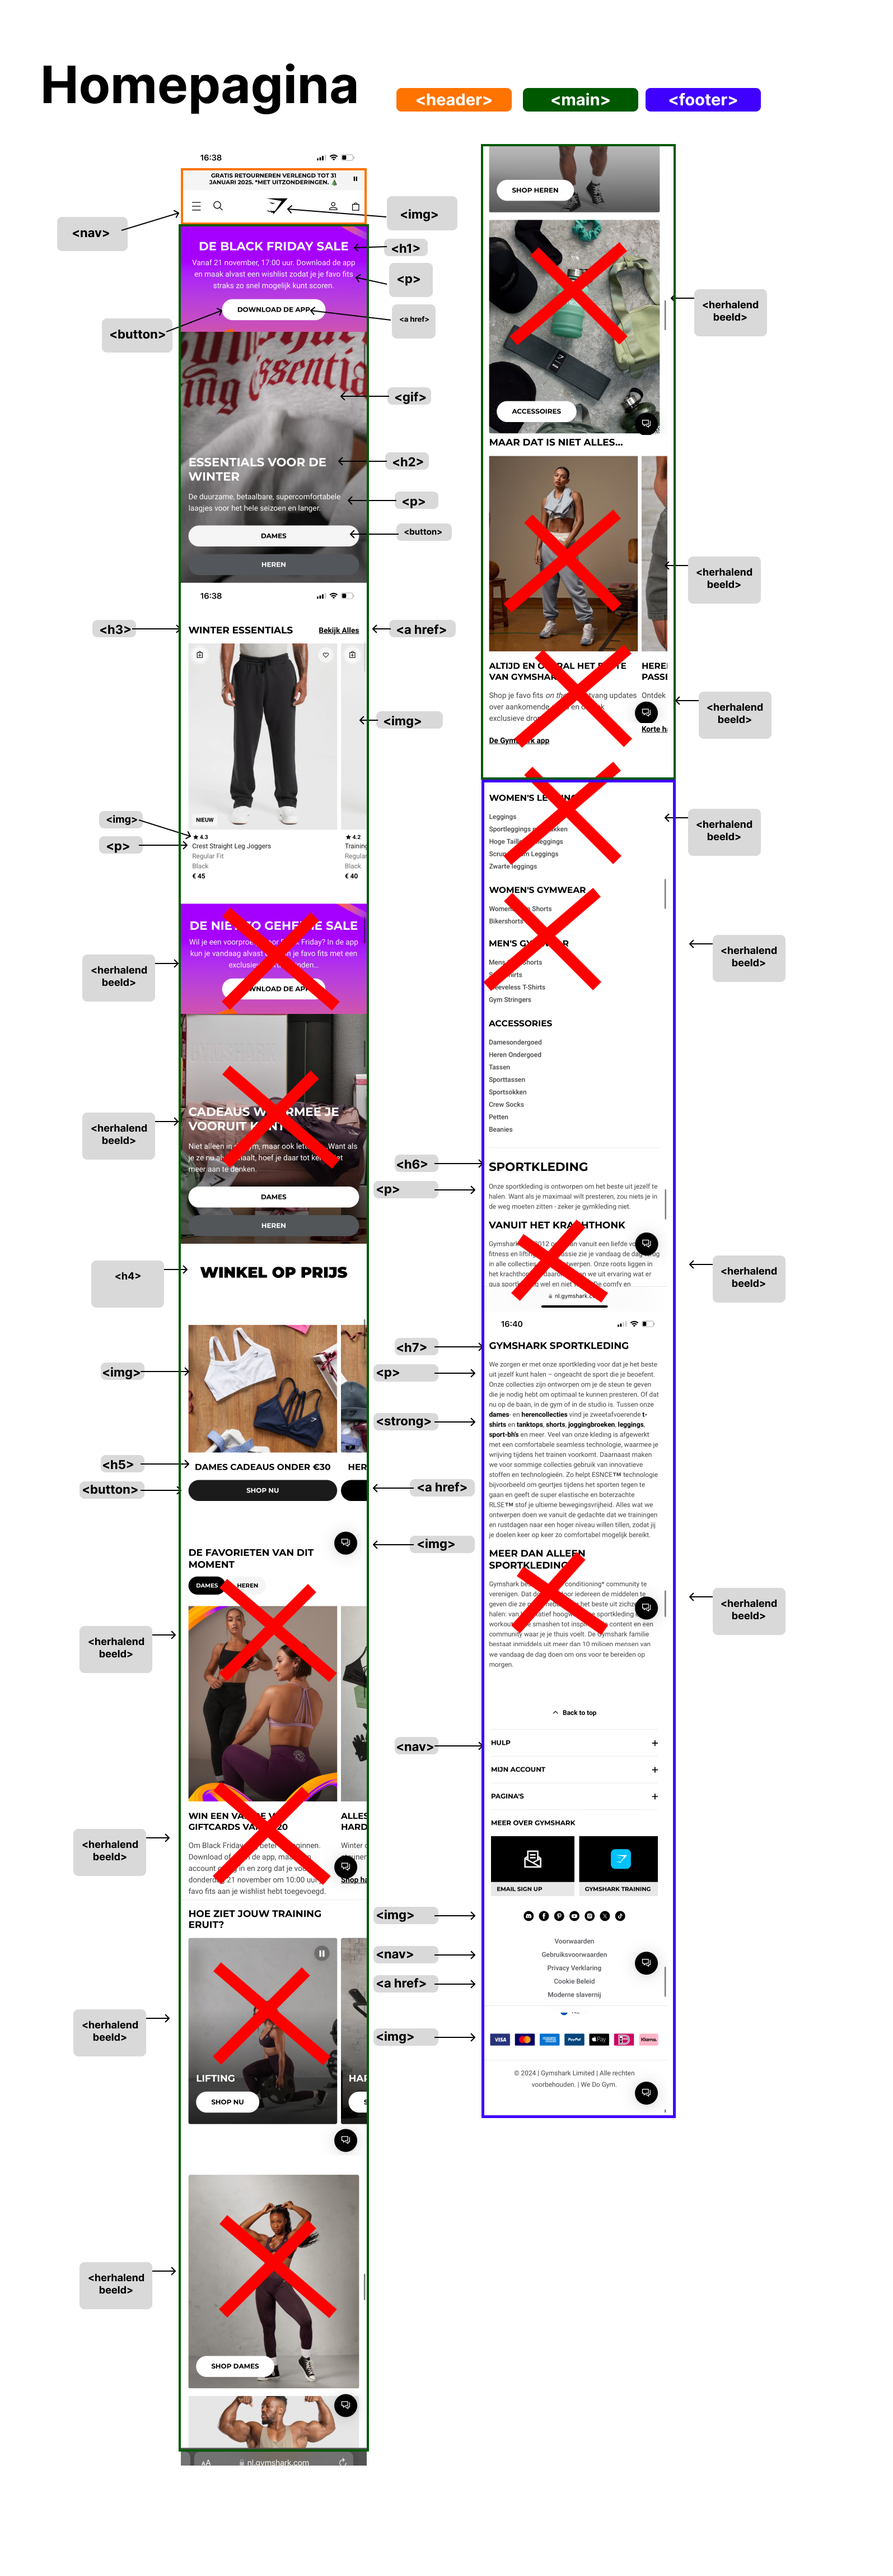
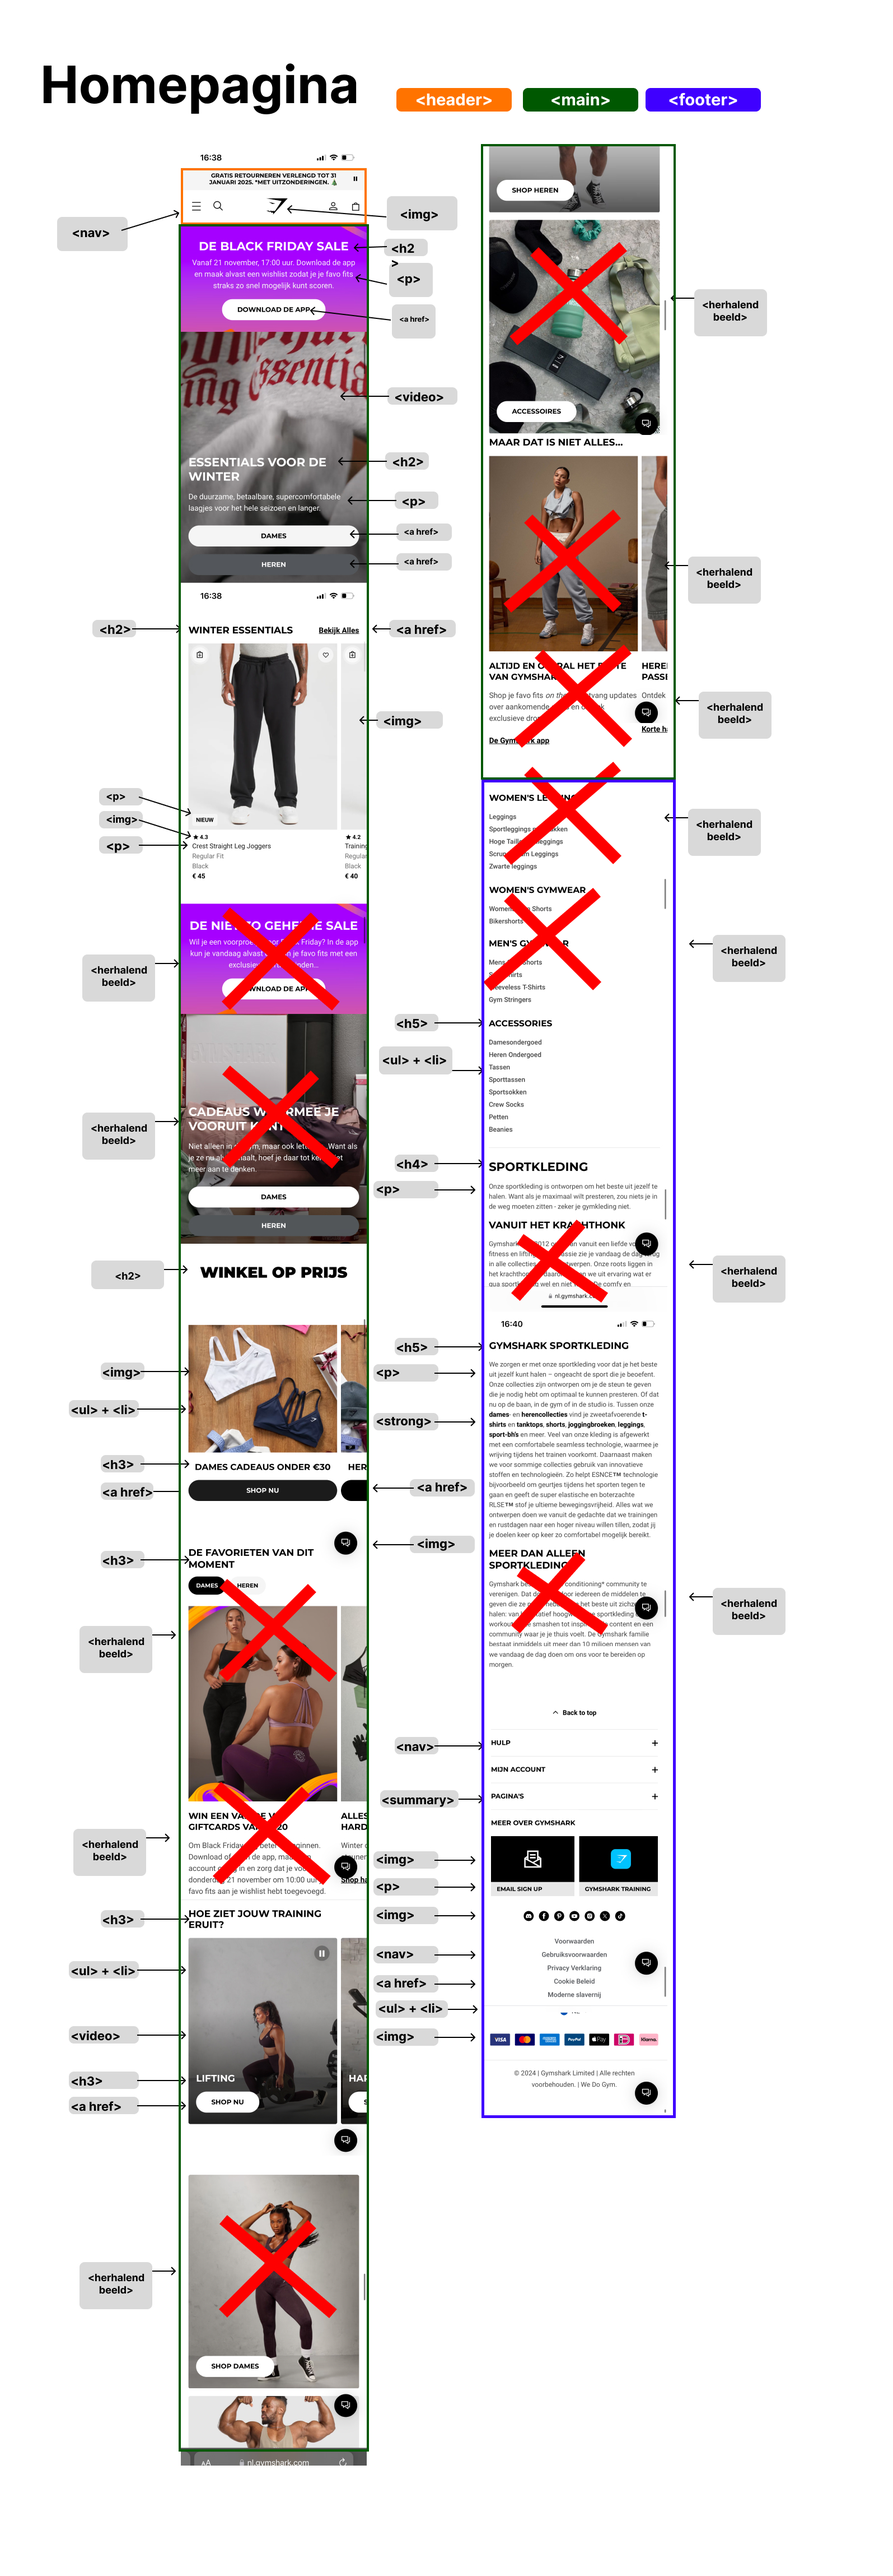
Add files via upload

diff --git a/README.md b/README.md
@@ -56,13 +56,34 @@ Responsive
   <summary>uitwerken na test in 2<sup>e</sup> werkgroep</summary>
 
   ### Bevindingen
-  Lijst met je bevindingen die in de test naar voren kwamen:
-    - Er zijn geen alt tags aanwezig op de content
-    - Het ging goed bij het selecteren van een andere taal en ander land waar je je bevindt, alleen het terug veranderen ging moeizaam.
-    - Niet alle interactieve elementen worden gefocust via de keyboard input (shift + tab)
-    - Horizontaal scrollen is niet mogelijk
-    - Er zit genoeg ruimte tussen interactieve buttons
-    - Slechte heading volgorde (sommige headings zijn divs)
+
+1. Content
+De tekst op de website is duidelijk en gemakkelijk te begrijpen zonder gebruik van aparte taal.
+Beschrijvingen van producten zijn vrij kort en kan problematisch zijn voor mensen die een visuele beperking hebben, in de alt text van de afbeelding staat zelfs niet welke kleur een broek is.
+2. Global code
+Er wordt slecht gebruik gemaakt van de headings, dit zijn <div> in plaats van bijvoorbeeld een <h2>
+3. Keyboard
+Alle interactieve elementen, zoals knoppen en links, kunnen goed worden bediend via het toetsenbord. De focusstatus is niet altijd zichtbaar wanneer gebruikers via het toetsenbord navigeren, wat het moeilijk maakt om te zien welk element geselecteerd is.
+4. Images
+De meeste afbeeldingen bevatten een alt-tekst die de inhoud van de afbeelding beschrijft. Bij sommige plaatjes staat de heading als alt tag in de image waardoor je niet weet wat het plaatje is.
+5. Headings
+De headings zijn niet goed gestructureerd. De hoofdtitel van de pagina zit in een banner, dit klopt niet. Verder zijn er meerdere H1 elementen wat niet mogelijk is.
+6. Lists
+De website gebruikt lijststructuren (zoals <ul> en <li>) op een goede manier, bij items zie je eerst een <ul> als parent en dan <li> items als children.
+7. Controls
+Knoppen en links zijn duidelijk gemarkeerd, en hun functionaliteit is direct herkenbaar. De elementen hebben een duidelijke focus status bij het navigeren met het toetsenbord.
+8. Media
+De video's op de website kunnen gepauzeerd worden, en de bedieningsknoppen zijn duidelijk zichtbaar. Wel spelen deze video's automatisch al af wat vervelend kan zijn voor iemand die veel prikkels binnenkrijgt.
+9. Appearance
+Het ontwerp van de website is eenvoudig, overzichtelijk en consistent, wat het voor gebruikers gemakkelijk maakt om te navigeren, soms is er wel sprake van tekst op een achtergrond wat vervelend kan zijn voor mensen die snel geprikkeld zijn.
+10. Animation
+De animaties op de website zijn erg klein en subtiel, je kunt zelfs een aantal animaties op pauze zetten wat zorgt voor meer rust in de pagina.
+11. Color Contrast
+Goed: De tekst op de website heeft over het algemeen goed kleurcontrast, wat de leesbaarheid vergroot. Het contrast van de heading en de video is als enige niet geweldig te zien, maar de rest complimenteert erg goed aan elkaar.
+12. Mobile and Touch
+
+De website schaalt goed op mobiele apparaten en past zich aan verschillende schermformaten aan. De volgorde verandert wel heel erg van de navigatie wat voor de gebruiker verwarrend kan zijn.
+De Gymshark-website heeft duidelijke tekst, maar productbeschrijvingen en alt-teksten missen soms belangrijke details. Headings zijn slecht gestructureerd en niet correct gecodeerd. Keyboardnavigatie werkt grotendeels goed, maar de focusstatus ontbreekt soms. Afbeeldingen bevatten onjuiste alt-tags, en video's spelen automatisch af, wat prikkelend kan zijn. Het kleurcontrast is overwegend goed, maar sommige tekst-over-achtergrond combinaties zijn onduidelijk. De mobiele weergave is responsive, maar kan verwarrend zijn door veranderde navigatievolgorde. De animaties zijn subtiel en te pauzeren. Over het algemeen biedt de website ruimte voor verbeteringen.
 </details> 
 
 
@@ -79,7 +100,7 @@ Responsive
   <img src="readme-images/navmenu.jpg" width="375px" alt="breakdown van een dynamisch deel">
 
   ### wellicht nog een dynamisch deel (bijv filter): 
-  <img src="readme-images/Filtermenu.jpg" width="375px" alt="breakdown van nog een dynamisch deel">
+  <img src="readme-images/filtermenu.jpg" width="375px" alt="breakdown van nog een dynamisch deel">
 
 </details>
 
@@ -108,11 +129,13 @@ Responsive
 
   ### Verslag van meeting
   hier na afloop snel de uitkomsten van de meeting vastleggen
-
-  - punt 1
-  - punt 2
-  - nog een punt
-  - ...
+* H1 onzichtbaar op de website
+* Hierarchie headings verbeteren <h1> <h2> etc.
+* Verschil weten tussen <a href> en <button>
+* Input = search voor de zoekbalk
+* Minder gebruik maken van article en gebruik maken van ul en dan list items
+* Position komt nog in de les voor het verplaatsen van <nav>
+* <Summary> and details voor dropdownmenu
 
 </details>
 
